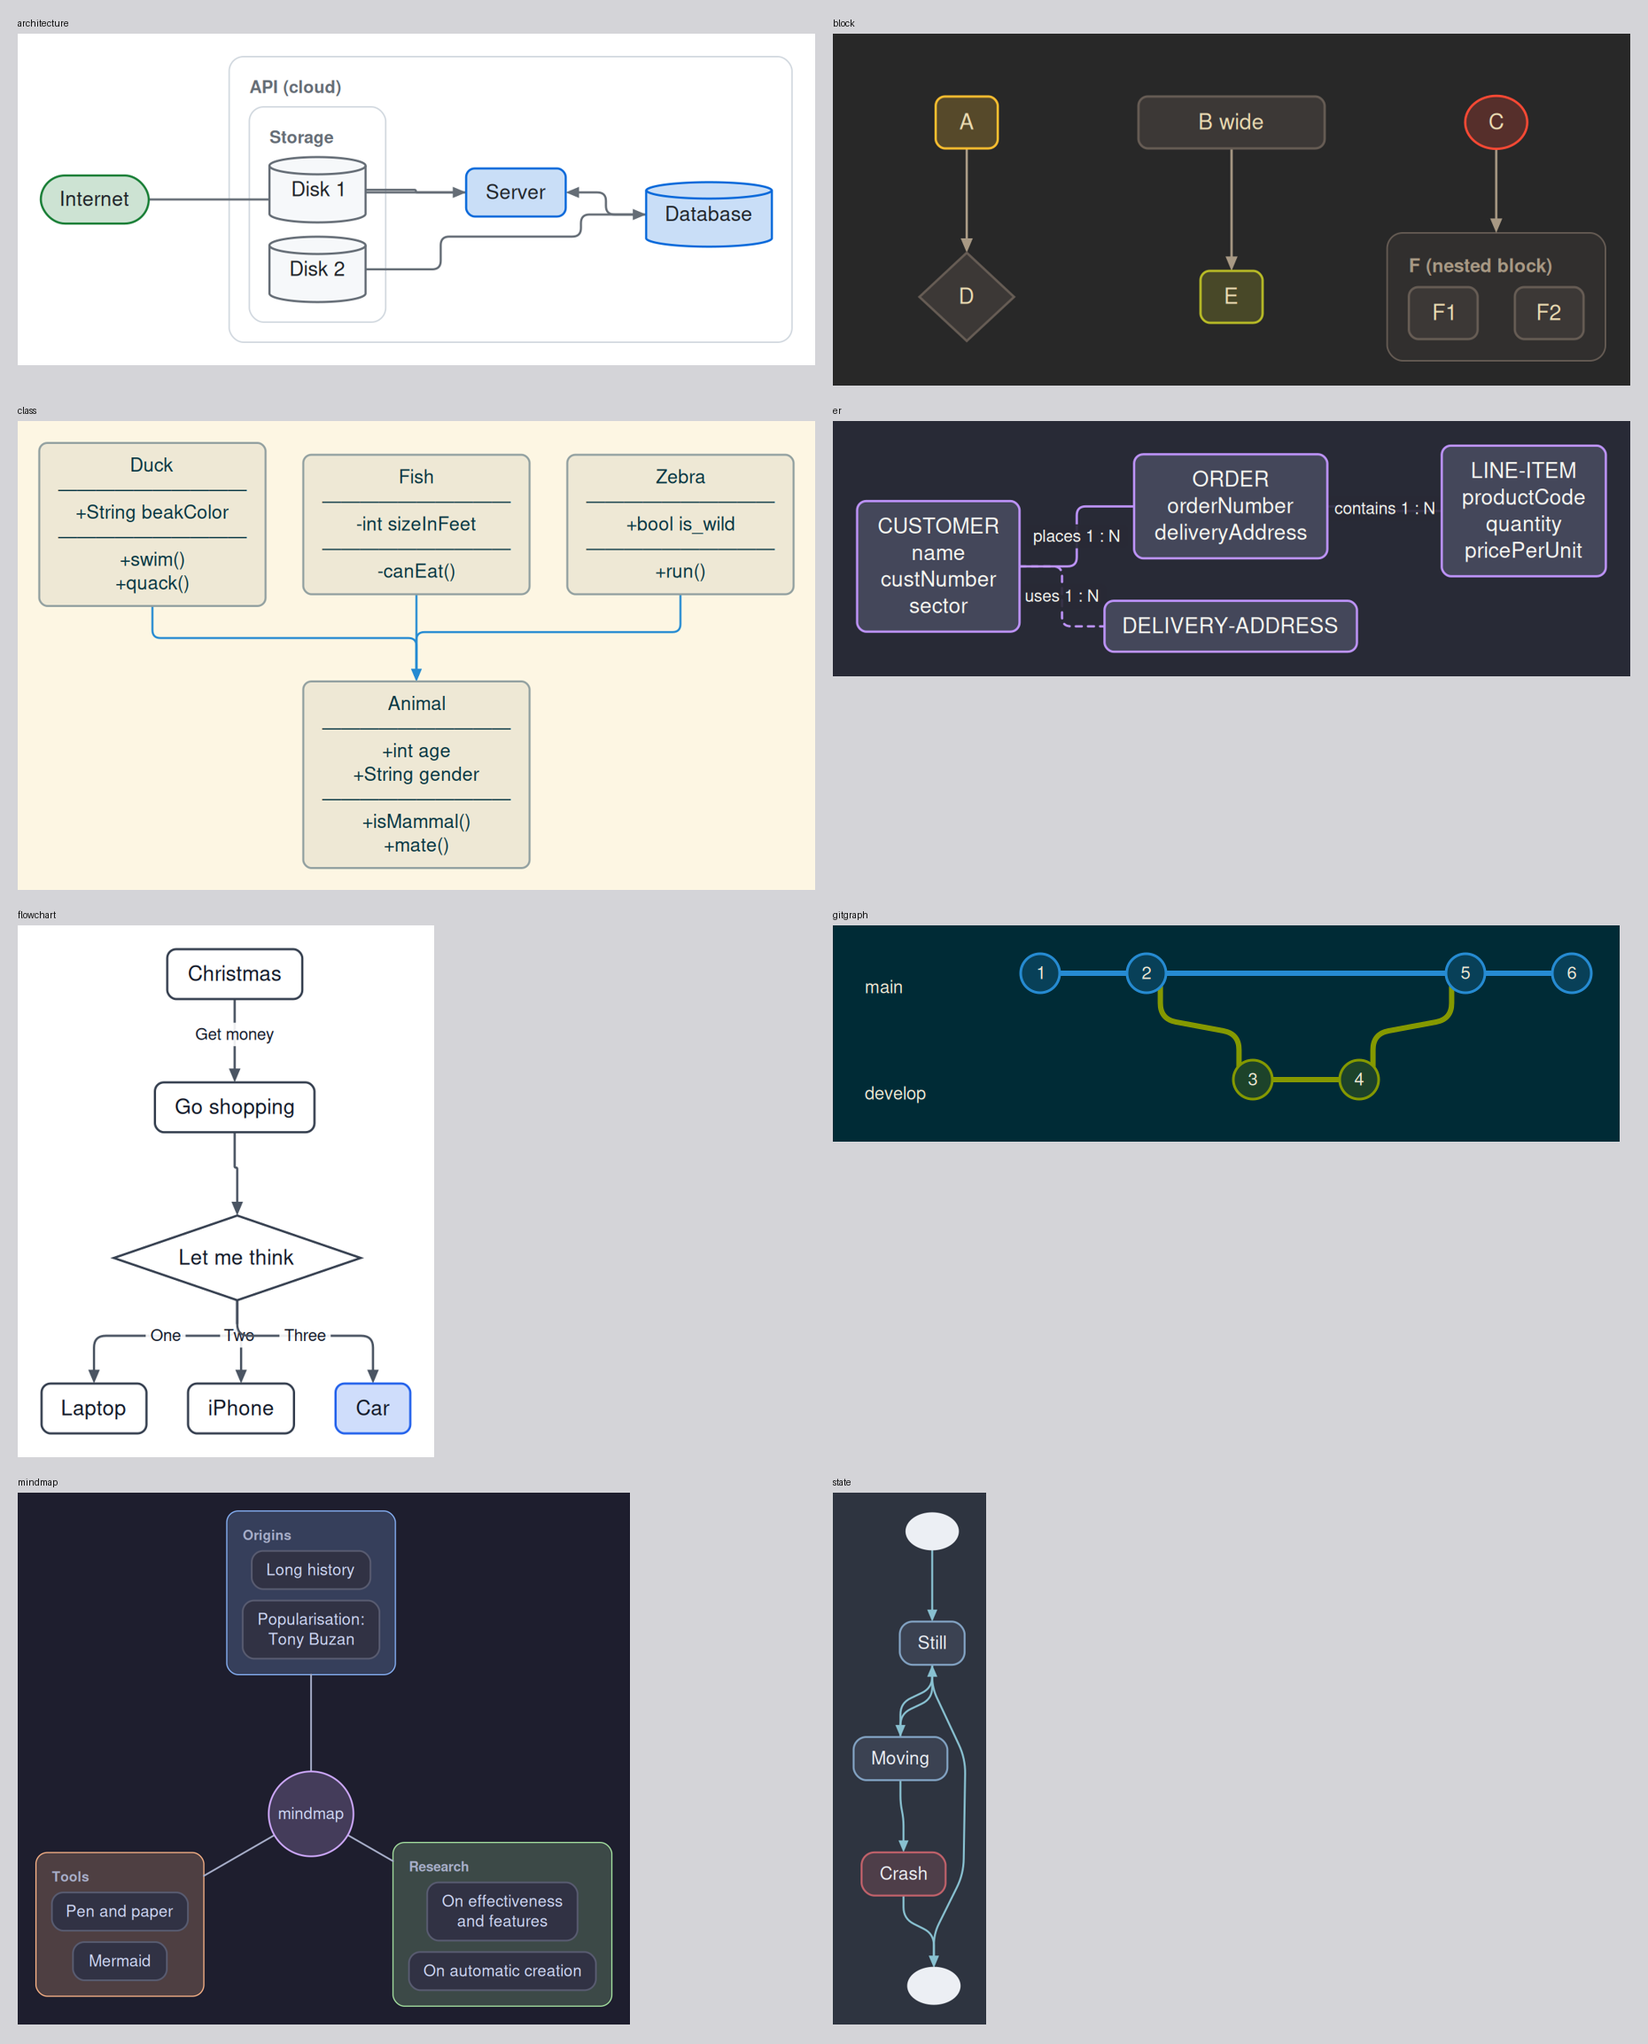
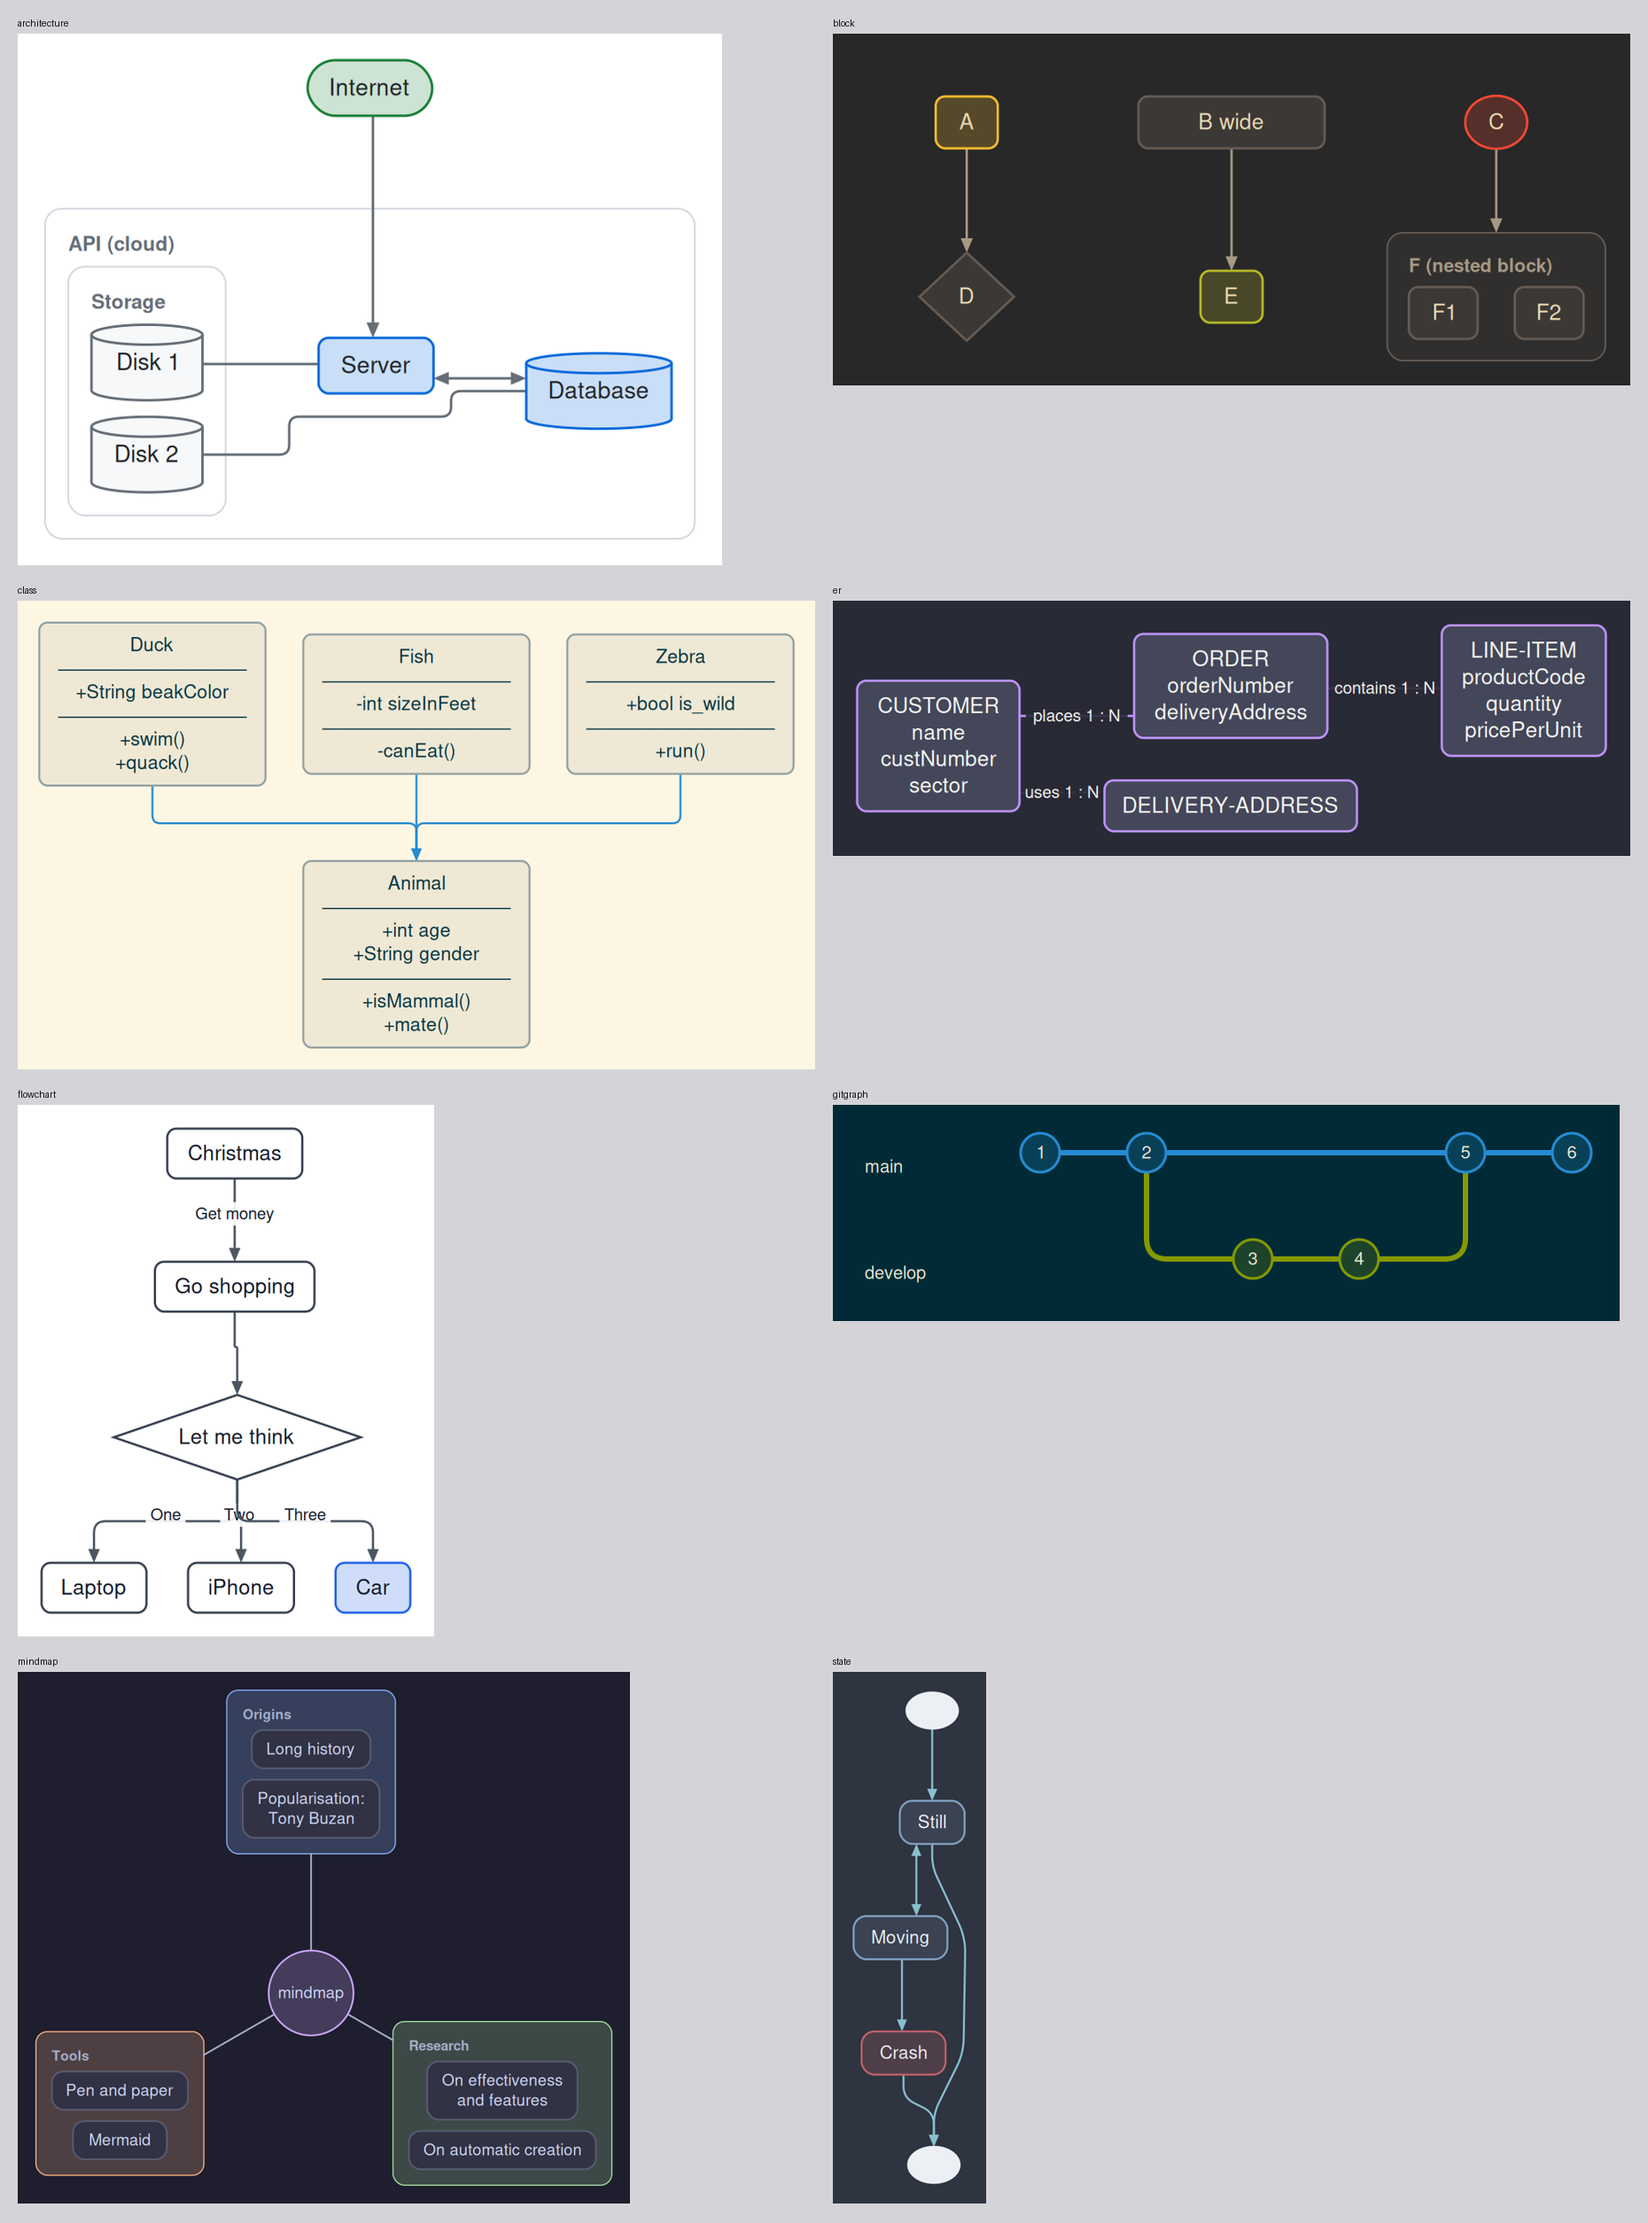
feat(route): add exit/enter ports, bus levels, parallel offsets

diff --git a/src/nodal/svg.py b/src/nodal/svg.py
@@ -58,6 +58,54 @@ class SvgRenderer:
         self.defs: dict[str, str] = {}
 
     # ------------------------------------------------------------ edges
+    def prepare_edges(self):
+        """Cross-edge bookkeeping: parallel-edge offsets and shared fan-in bend levels."""
+        pairs: dict[tuple[str, str], list[Edge]] = {}
+        for e in self.doc.edges:
+            pairs.setdefault(tuple(sorted((e.src, e.dst))), []).append(e)
+        self.offset = {}
+        for es in pairs.values():
+            n = len(es)
+            for i, e in enumerate(es):
+                k = (i - (n - 1) / 2) * 12
+                # opposite-direction edges get mirrored sign so they stay apart
+                self.offset[e.id] = k if e.src <= e.dst else -k
+        self.bend_level = {}
+
+    def _shared_bends(self):
+        """Ortho fan-in/fan-out: edges sharing a target (or source) turn at one common
+        level, so they merge into a single bus line (class-diagram style)."""
+        geo = {e.id: self.edge_geometry(e) for e in self.doc.edges
+               if e.style.get("route", "curve") == "ortho"}
+        for key in ("dst", "src"):
+            buckets: dict[str, list] = {}
+            for e in self.doc.edges:
+                if e.id in geo and geo[e.id][1] in ("v", "h") and len(geo[e.id][0]) == 2:
+                    buckets.setdefault(getattr(e, key), []).append(e)
+            for es in buckets.values():
+                if len(es) < 2:
+                    continue
+                if any(e.id in self.bend_level for e in es):
+                    continue
+                axis = geo[es[0].id][1]
+                i = 1 if axis == "v" else 0
+                hub = [geo[e.id][0][-1 if key == "dst" else 0][i] for e in es]
+                far = [geo[e.id][0][0 if key == "dst" else -1][i] for e in es]
+                if len({round(h) for h in hub}) != 1 or len({geo[e.id][1] for e in es}) != 1:
+                    continue
+                h = hub[0]
+                nearest = min(far, key=lambda f: abs(f - h))
+                level = h + (nearest - h) / 2
+                for e in es:
+                    self.bend_level[e.id] = level
+
+    def _ports(self, e, a, b, vert, sep):
+        if vert:
+            down = b.cy > a.cy
+            return port(a, "bottom" if down else "top"), port(b, "top" if down else "bottom")
+        right = b.cx > a.cx
+        return port(a, "right" if right else "left"), port(b, "left" if right else "right")
+
     def edge_geometry(self, e: Edge):
         a, b = self.doc.items[e.src], self.doc.items[e.dst]
         owner = lca(a, b, self.doc.root)
@@ -65,29 +113,44 @@ class SvgRenderer:
         d = flow_dir(owner)
         route = e.style.get("route", "curve")
         wps = list(e.waypoints)
+        off = self.offset.get(e.id, 0.0)
+        # explicit ports: exit=/enter= top|bottom|left|right
+        ex, en = e.attrs.get("exit"), e.attrs.get("enter")
+        if ex or en:
+            ex = ex or ("right" if b.cx > a.cx else "left")
+            en = en or ("left" if b.cx > a.cx else "right")
+            p0, p1 = port(a, ex), port(b, en)
+            v0, v1 = ex in ("top", "bottom"), en in ("top", "bottom")
+            if v0 != v1:  # L-shape: one corner
+                corner = (p0[0], p1[1]) if v0 else (p1[0], p0[1])
+                return [p0, corner, p1], "L"
+            return [p0] + wps + [p1], ("v" if v0 else "h")
         if d in ("TB", "BT", "LR", "RL") and route != "straight":
             vert = d in ("TB", "BT")
-            # are the projected boxes separated on the main axis?
             if vert:
                 sep = da.ay + da.h <= db.ay or db.ay + db.h <= da.ay
             else:
                 sep = da.ax + da.w <= db.ax or db.ax + db.w <= da.ax
-            if sep:
+            if not sep:
+                vert = not vert  # same rank: connect sideways
+            p0, p1 = self._ports(e, a, b, vert, sep)
+            if off:
                 if vert:
-                    down = b.cy > a.cy
-                    p0 = port(a, "bottom" if down else "top")
-                    p1 = port(b, "top" if down else "bottom")
+                    p0, p1 = (p0[0] + off, p0[1]), (p1[0] + off, p1[1])
                 else:
-                    right = b.cx > a.cx
-                    p0 = port(a, "right" if right else "left")
-                    p1 = port(b, "left" if right else "right")
-                return [p0] + wps + [p1], ("v" if vert else "h")
-            # same rank: connect sideways in the cross direction
-            if vert:
-                right = b.cx > a.cx
-                return [port(a, "right" if right else "left"), port(b, "left" if right else "right")], "h"
-            down = b.cy > a.cy
-            return [port(a, "bottom" if down else "top"), port(b, "top" if down else "bottom")], "v"
+                    p0, p1 = (p0[0], p0[1] + off), (p1[0], p1[1] + off)
+            # boxes overlap on the cross axis: draw one straight line, no jog / double trace
+            rect = {"box", "square", "round", "pill", "cylinder", "note", "image", "none"}
+            boxy = all(x.attrs.get("shape", "box") in rect or isinstance(x, Group) for x in (a, b))
+            if not wps and not off and boxy:
+                i = 0 if vert else 1
+                lo = max(a.ax if vert else a.ay, b.ax if vert else b.ay)
+                hi = min((a.ax + a.w) if vert else (a.ay + a.h), (b.ax + b.w) if vert else (b.ay + b.h))
+                if abs(p0[i] - p1[i]) > 0.5 and hi - lo >= 16:
+                    m = min(max((p0[i] + p1[i]) / 2, lo + 8), hi - 8)
+                    p0 = (m, p0[1]) if vert else (p0[0], m)
+                    p1 = (m, p1[1]) if vert else (p1[0], m)
+            return [p0] + wps + [p1], ("v" if vert else "h")
         # free layouts: shortest centre-to-centre, clipped to outline
         tgt0 = wps[0] if wps else (b.cx, b.cy)
         tgt1 = wps[-1] if wps else (a.cx, a.cy)
@@ -95,7 +158,9 @@ class SvgRenderer:
         p1 = boundary_point(b, *tgt1, b.attrs.get("shape", "box"))
         return [p0] + wps + [p1], ("v" if abs(p1[1] - p0[1]) >= abs(p1[0] - p0[0]) else "h")
 
-    def path_d(self, pts, axis, route, radius=6.0, stub=None):
+    def path_d(self, pts, axis, route, radius=6.0, stub=None, mid=None):
+        if axis == "L":  # explicit-port L shape: polyline with rounded corner
+            return self._rounded(list(pts), max(radius, 8))
         if route == "straight" or len(pts) < 2:
             return "M " + " L ".join(f"{x:.1f} {y:.1f}" for x, y in pts)
         if route == "bend":
@@ -115,10 +180,10 @@ class SvgRenderer:
             seg = [pts[0]]
             for (x0, y0), (x1, y1) in zip(pts, pts[1:]):
                 if axis == "v":
-                    my = (y0 + y1) / 2
+                    my = mid if mid is not None and len(pts) == 2 else (y0 + y1) / 2
                     seg += [(x0, my), (x1, my), (x1, y1)]
                 else:
-                    mx = (x0 + x1) / 2
+                    mx = mid if mid is not None and len(pts) == 2 else (x0 + x1) / 2
                     seg += [(mx, y0), (mx, y1), (x1, y1)]
             # drop duplicate / collinear points and round corners
             clean = [seg[0]]
@@ -201,7 +266,7 @@ class SvgRenderer:
                                                    self.doc.root)) == "auto"
 
         def end_dir(tip, prev):
-            if free:
+            if free or axis == "L":
                 dx, dy = tip[0] - prev[0], tip[1] - prev[1]
             elif axis == "v":
                 dx, dy = 0.0, tip[1] - prev[1]
@@ -225,7 +290,7 @@ class SvgRenderer:
             stub += hl  # keep the bend clear of the head
         radius = px(st.get("radius"), 12 if route == "bend" else 6)
         cap = "butt" if heads else "round"
-        attrs = [f'd="{self.path_d(pts, axis, route, radius, stub)}"', 'fill="none"', f'stroke="{color}"',
+        attrs = [f'd="{self.path_d(pts, axis, route, radius, stub, self.bend_level.get(e.id))}"', 'fill="none"', f'stroke="{color}"',
                  f'stroke-width="{width:g}"', f'stroke-linecap="{cap}"', 'stroke-linejoin="round"']
         if dash:
             attrs.append(f'stroke-dasharray="{dash}"')
@@ -390,6 +455,8 @@ class SvgRenderer:
             if isinstance(c, Group):
                 self.render_group(c)
         self.out = edges_out = []
+        self.prepare_edges()
+        self._shared_bends()
         for e in self.doc.edges:
             self.render_edge(e)
         self.out = body_nodes

diff --git a/docs/SPEC.md b/docs/SPEC.md
@@ -70,6 +70,13 @@ Per-edge attributes override arrow defaults:
     into a straight diagonal.
   - `ortho`: right angles; `radius=` rounds the corners (default 6).
 - `radius=N`, `stub=N` — bend tuning (also graph-wide and as CSS `radius:` / `stub:` on `edge`)
+- `exit=top|bottom|left|right`, `enter=...` — pin the side an edge leaves/enters (port at the
+  side's middle). Mixed vertical/horizontal sides draw an L with one rounded corner.
+
+Automatic routing rules (layered layouts):
+- Edges between the same two nodes are offset in parallel; `A <-> B` draws one double-headed edge.
+- Ortho edges sharing a target (fan-in) or source (fan-out) turn at one common level, forming a bus.
+- Rectangular nodes that overlap on the cross axis are joined by a single straight line (no jog).
 - `weight=N` — how strongly a layered layout keeps the edge short/straight (default 1)
 - `constraint=false` — the edge is drawn but ignored by layout
 
